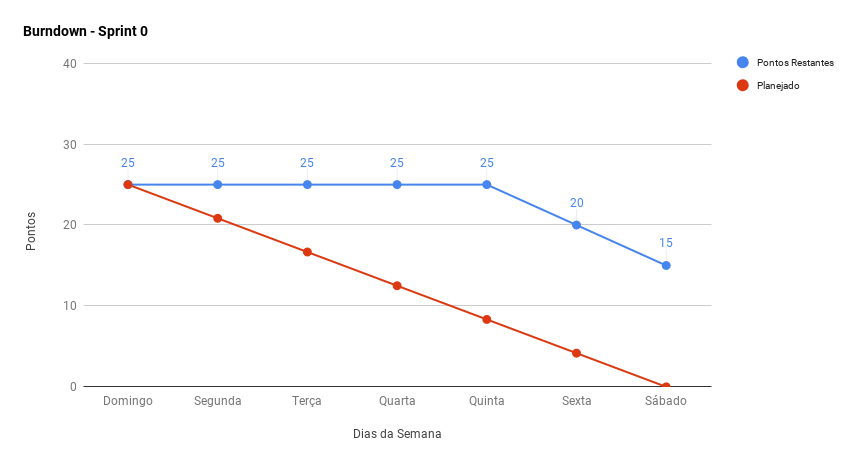
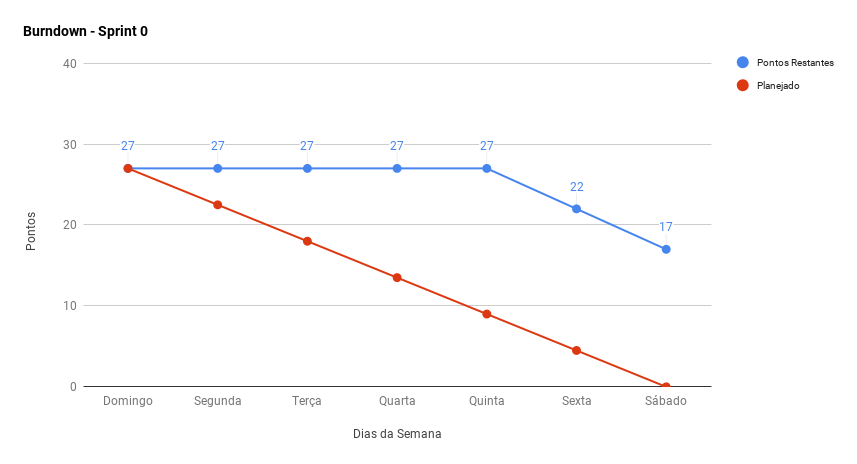
Update Sprint 1 velocity and burndown

Changed region(s): [[0.1214, 0.3017, 0.7888, 0.6638], [0.5461, 0.6638, 0.6674, 0.7543], [0.6674, 0.7543, 0.7585, 0.8147]]

diff --git a/docs/Sprint-1-Resultados.md b/docs/Sprint-1-Resultados.md
@@ -20,13 +20,14 @@ A equipe de EPS pôde apresentar e praticar os rituais com a equipe de MDS, já 
 |[Treinamento de prototipação](https://github.com/fga-eps-mds/Kalkuli/issues/5)| Concluída | 2|
 |[Criação de protótipos de baixa fidelidade](https://github.com/fga-eps-mds/Kalkuli/issues/28) | Concluída | 3 |
 |[Documento de Visão](https://github.com/fga-eps-mds/Kalkuli/issues/26)| Concluída | 5 |
+|[Criar as Políticas de Uso do Repositório](https://github.com/fga-eps-mds/Kalkuli/issues/9)| Não Concluída |2|
 |[TAP](https://github.com/fga-eps-mds/Kalkuli/issues/12)| Não Concluída |5 |
 |[Plano de Gerenciamento de Riscos](https://github.com/fga-eps-mds/Kalkuli/issues/9)| Não Concluída | 5 |  
 |[EAP](https://github.com/fga-eps-mds/Kalkuli/issues/11)| Não Concluída | 5 |
 
 Pontos Planejados Concluídos: 10     
 Pontos de Dívida Concluídos:  0   
-Pontos Não Agregados: 15   
+Pontos Não Agregados: 17   
 
 
 > [_Milestone Sprint_ 1](https://github.com/fga-eps-mds/2018.2-Kalkuli/milestone/2?closed=1)   

diff --git a/docs/Sprint-1.md b/docs/Sprint-1.md
@@ -30,8 +30,9 @@ Após o fechamento do escopo, será possível definir a Estrutura Analítica do 
 |Realizar [treinamento de prototipação](https://github.com/fga-eps-mds/Kalkuli/issues/5)| 2|
 |[Criar protótipos de baixa fidelidade](https://github.com/fga-eps-mds/Kalkuli/issues/28)|3|
 |[Criar Plano de Gerenciamento de Riscos](https://github.com/fga-eps-mds/Kalkuli/issues/9)|5|
+|[Criar as Políticas de Uso do Repositório](https://github.com/fga-eps-mds/Kalkuli/issues/9)|2|
 
-<b>Total de pontos planejados: 25</b>  
+<b>Total de pontos planejados: 27</b>  
 
 ### _Issues_ Acrescentadas Durante a _Sprint_  
 
@@ -41,7 +42,7 @@ Após o fechamento do escopo, será possível definir a Estrutura Analítica do 
 
 ***
 
-<div style="text-align: center"> Total de pontos da <i>sprint</i>: 25 </div> <br>
+<div style="text-align: center"> Total de pontos da <i>sprint</i>: 27 </div> <br>
 
 > [_Sprint_ _Backlog_](https://github.com/fga-eps-mds/Kalkuli/milestone/2)   
 
